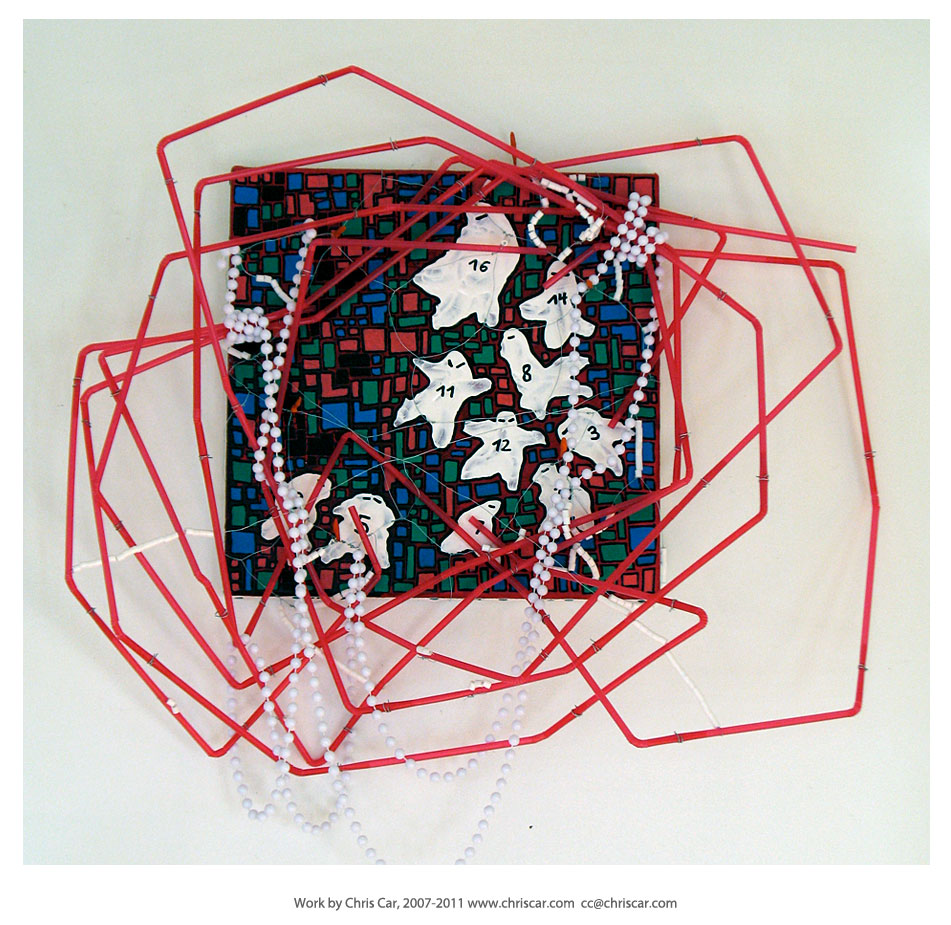
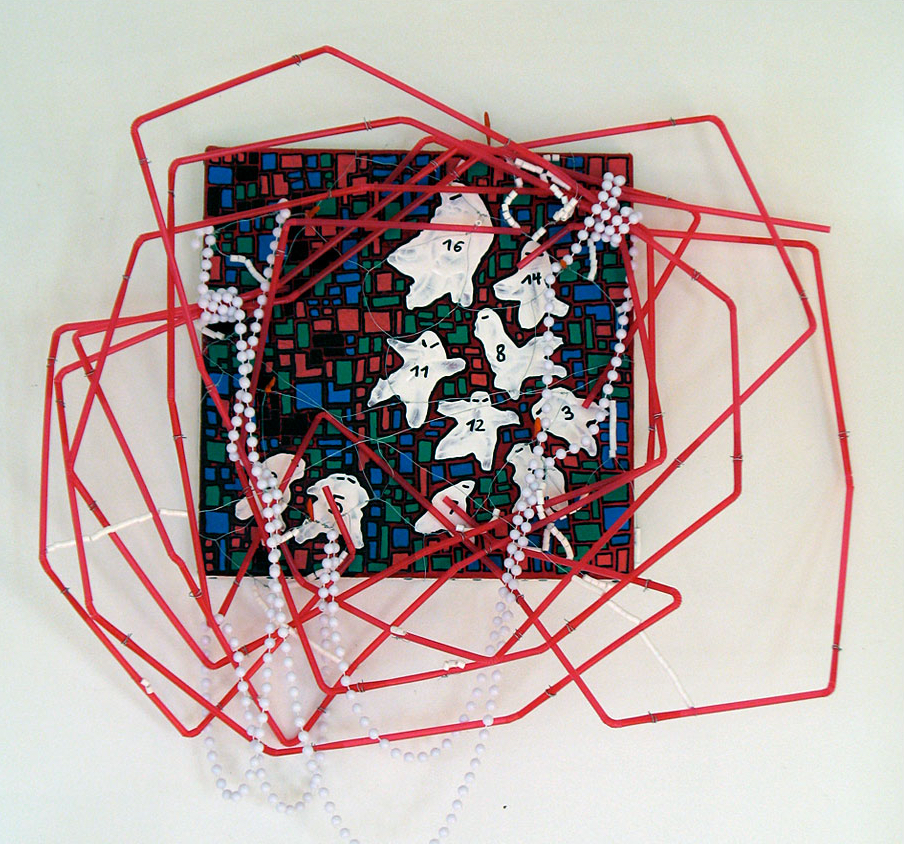
wip

diff --git a/src/posts/2010/cancel-save-delete.md b/src/posts/2010/cancel-save-delete.md
@@ -1,0 +1,11 @@
+---
+title: 'Cancel - Save - Delete'
+description: "Mia Car, Cancel - Save - Delete, 2010, acrylic on canvas, wire, styrofoam, 41 x 33 x 18 cm"
+date: 2010-01-01
+tags: ['sculpture', 'painting', 'legacy', 'early work', '2010']
+image: '/assets/images/artworks/2010/30_ok_v2.jpg'
+alt: 'Mia Car, Cancel - Save - Delete, 2010, acrylic on canvas, wire, styrofoam, 41 x 33 x 18 cm'
+credit: Mia Car
+---
+Mia Car, Cancel - Save - Delete, 2010, acrylic on canvas, wire, styrofoam, 41 x 33 x 18 cm
+<img src="/assets/images/artworks/2010/30_ok_v2.jpg" alt="Mia Car, Cancel - Save - Delete, 2010, acrylic on canvas, wire, styrofoam, 41 x 33 x 18 cm" sizes="auto" loading="eager" decoding="sync">

diff --git a/src/posts/2010/gee.md b/src/posts/2010/gee.md
@@ -1,0 +1,11 @@
+---
+title: 'Gee'
+description: "Mia Car, Gee, 2010, acrylic on canvas, plastic chain, clay, 55 x 33 x 21 cm"
+date: 2010-01-01
+tags: ['sculpture', 'painting', 'legacy', 'early work', '2010']
+image: '/assets/images/artworks/2010/31_gee_v2.jpg'
+alt: 'Mia Car, Gee, 2010, acrylic on canvas, plastic chain, clay, 55 x 33 x 21 cm'
+credit: Mia Car
+---
+Mia Car, Gee, 2010, acrylic on canvas, plastic chain, clay, 55 x 33 x 21 cm
+<img src="/assets/images/artworks/2010/31_gee_v2.jpg" alt="Mia Car, Gee, 2010, acrylic on canvas, plastic chain, clay, 55 x 33 x 21 cm" sizes="auto" loading="eager" decoding="sync">

diff --git a/src/posts/2010/11.md b/src/posts/2010/11.md
@@ -1,0 +1,11 @@
+---
+title: '11'
+description: "Mia Car, 11, 2010, acrylic on canvas, plastic straws, 56 x 56 x 14 cm"
+date: 2010-01-01
+tags: ['sculpture', 'painting', 'legacy', 'early work', '2010']
+image: '/assets/images/artworks/2010/29_11_v2.jpg'
+alt: 'Mia Car, 11, 2010, acrylic on canvas, plastic straws, 56 x 56 x 14 cm'
+credit: Mia Car
+---
+Mia Car, 11, 2010, acrylic on canvas, plastic straws, 56 x 56 x 14 cm
+<img src="/assets/images/artworks/2010/29_11_v2.jpg" alt="Mia Car, 11, 2010, acrylic on canvas, plastic straws, 56 x 56 x 14 cm" sizes="auto" loading="eager" decoding="sync">
